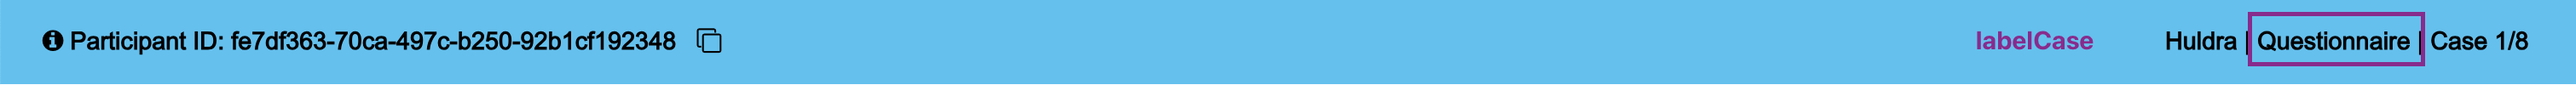
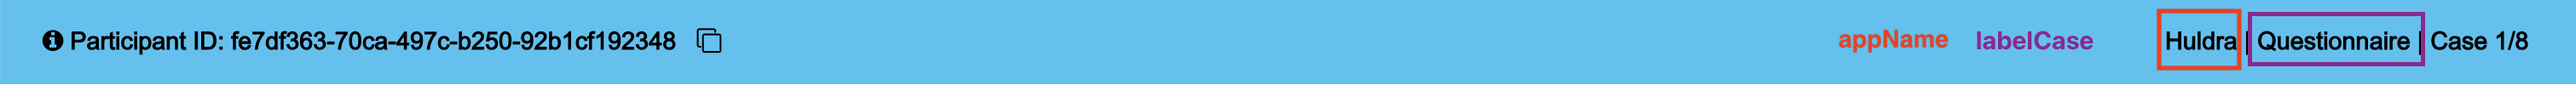
documentation updates

Changed region(s): [[0.7154, 0.36, 0.7776, 0.6], [0.8398, 0.75, 0.8709, 0.84], [0.8398, 0.09, 0.8709, 0.18]]

diff --git a/CONFIGURATION-PARAMETERS.md b/CONFIGURATION-PARAMETERS.md
@@ -807,71 +807,122 @@ The `REACT_APP_homepage` block contains 3 elements.
 
 
 
-## REACT_APP_footer
-
-The footer component is common to all pages in the survey (except warning page). 
-The footer is configured using the `REACT_APP_footer` block in the `config.json` file. 
-
-### Parameters
-
-The `REACT_APP_footer` block contains 5 elements.
-- `icon1ClassName`: The first icon dsplayed on the footer can be configured with this element. The icon class is generated through font awesome which is a toolkit that provides scalable vector icons.
-- `icon2ClassName`: The second icon dsplayed on the footer can be configured with this element. The icon class is generated through font awesome which is a toolkit that provides scalable vector icons.
-- `icon1Url`: The URL that a user will be redirected when clicked on first icon is defined here.
-- `icon2Url`: The URL that a user will be redirected when clicked on second icon is defined here.
-- `label`: The text between two icons can be configured here.
-
-### Visual Overview
-
-<kbd>![Footer](./src/assets/documentation/footer.png)</kbd>
-
-### Sample Config
-
-```json
- "REACT_APP_footer": {
-    "icon1ClassName": "fa fa-envelope-o mr-1 fa-lg generic-icon",
-    "icon2ClassName": "fa fa-github ml-1 fa-lg generic-icon",
-    "icon1Url": "mailto:huldra@simula.no",
-    "icon2Url": "https://github.com/simula/huldra",
-    "label": "huldra@simula.no"
-  }
-```
-
-
-
-## REACT_APP_header
-
-The header component is common to all pages in the survey (except warning page, homepage, registration page, and end page). 
-The header is configured using the `REACT_APP_header` block in the `config.json` file. 
-
-### Parameters
-
-The `REACT_APP_header` block contains 4 elements.
-- `labelBackground`: This element is used to configure the title of the header on the Background page.
-- `labelDemonstration`: This element is used to configure the title of the header on the Demonstration page.
-- `labelCase`: This element is used to configure the title of the header on the cases pages.
-- `labelSummaryAndFeedback`: This element is used to configure the title of the header on the Summary and Feedback page.
-
-### Visual Overview
-
-<kbd>![Header (Background)](./src/assets/documentation/header_background.png)</kbd>
-<kbd>![Header (Demonstration)](./src/assets/documentation/header_demonstration.png)</kbd>
-<kbd>![Header (Case)](./src/assets/documentation/header_case.png)</kbd>
-<kbd>![Header (Summary and Feedback)](./src/assets/documentation/header_summaryAndFeedback.png)</kbd>
-
-
-### Sample Config
-
-```json
- "REACT_APP_header": {
-    "labelBackground": "Background",
-    "labelDemonstration": "Demonstration",
-    "labelCase": "Questionnaire",
-    "labelSummaryAndFeedback": "Summary and Feedback"
-  }
-
-```
 
 
 ## REACT_APP_general
+This component is a general component which configures various properties of the Huldra framework. This component is used to alter Huldra's behviour and working.
 
+### Parameters
+
+The `REACT_APP_general` block contains 11 elements.
+- `softwareInfoTag`: This tag serves the purpose of defining the software version or providing software information. The details specified here are prominently displayed in the generated JSON output file.
+- `appName`: This tag is used to congigure the app name which is displayed on the header. (Refer to the visual overview under the header subsection here for better understanding.)
+- `allowRevisitingAnswers`: This tag can take 2 values, i.e., True or False. Setting the value to False will not allow users to visit previous question.
+- `allowProceedingWithoutAnswering`: This tag can take 2 values, i.e., True or False. Setting the value to True will let users move on to another question without answering it, basically making the questions optional to answer.
+- `caseImageViewDetailsMandatory`: In _caseImage_ type survey question, there is a button where users can view more details about a particular image. With this tag it can be set if it is mandatory for user to view the details of the images or not. Set this value to True, if you want to make it mandatory for the user to view the details.
+- `caseHybridViewDetailsMandatory`: In _caseHybrid_ type survey question, there is a button where users can view more details about a particular image. With this tag it can be set if it is mandatory for user to view the details of the images or not. Set this value to True, if you want to make it mandatory for the user to view the details.
+- `caseOrder`: This parameter defines the order of the cases shown to the user.
+    #### Parameters
+    - `cases:` This is where you write the cases (folder names in firebase directory) that you want to show to the user.
+    - `shuffle:` This where you defined how the cases should be shuffled when shown to the user. It takes 2 values: 'categorized', and 'full'. With 'categorized': the order of the cases is shuffled within each media type, but the order of the types is hardcoded (image, hybrid, video, and audio). And with 'full': all the cases are shuffled.
+
+  NB: If you changed case order, sometimes you have to restart the browser or clear the local storage for it to take effect.
+
+- `color`: This element can be used to define the colour scheme of the app. It has 2 subelements. 
+    #### Parameters
+   - `themeColor:` Here you can define the theme colour of the app, this is mostly observed at the header and footer of the app. The default themeColor is `blue`.
+
+   - `buttonColor:` Here you can define the color of buttons in the app. The default buttonColor is `yellow`.
+
+  NB: You can pick from the following lists of colours only:
+
+  - 'blue': $\color{#38c3f2}{■}$ (#38c3f2)
+  - 'green': $\color{#6db784}{■}$ (#6db784);
+  - 'purple': $\color{#9b45b2}{■}$ (#9b45b2);
+  - 'yellow': $\color{#f9e45b}{■}$ (#f9e45b);
+  - 'teal': $\color{#2b6777}{■}$ (#2b6777);
+  - 'orange': $\color{#eb6b40}{■}$ (#eb6b40);
+
+-  `footer`:
+
+    The footer component is common to all pages in the survey (except warning page). 
+    The footer is configured using the `footer` block under `REACT_APP_general` in the `config.json` file. 
+
+    #### Parameters
+
+    The `footer` block contains 5 elements.
+    - `icon1ClassName`: The first icon dsplayed on the footer can be configured with this element. The icon class is generated through font awesome which is a toolkit that provides scalable vector icons.
+    - `icon2ClassName`: The second icon dsplayed on the footer can be configured with this element. The icon class is generated through font awesome which is a toolkit that provides scalable vector icons.
+    - `icon1Url`: The URL that a user will be redirected when clicked on first icon is defined here.
+    - `icon2Url`: The URL that a user will be redirected when clicked on second icon is defined here.
+    - `label`: The text between two icons can be configured here.
+
+    #### Visual Overview
+
+    <kbd>![Footer](./src/assets/documentation/footer.png)</kbd>
+
+
+
+
+-  #### `header`
+
+    The header component is common to all pages in the survey (except warning page, homepage, registration page, and end page). 
+    The header is configured using the `header` block under `REACT_APP_general` in the `config.json` file. 
+
+    #### Parameters
+
+    The `header` block contains 4 elements.
+    - `labelBackground`: This element is used to configure the title of the header on the Background page.
+    - `labelDemonstration`: This element is used to configure the title of the header on the Demonstration page.
+    - `labelCase`: This element is used to configure the title of the header on the cases pages.
+    - `labelSummaryAndFeedback`: This element is used to configure the title of the header on the Summary and Feedback page.
+
+    #### Visual Overview
+
+    <kbd>![Header (Background)](./src/assets/documentation/header_background.png)</kbd>
+    <kbd>![Header (Demonstration)](./src/assets/documentation/header_demonstration.png)</kbd>
+    <kbd>![Header (Case)](./src/assets/documentation/header_case.png)</kbd>
+    <kbd>![Header (Summary and Feedback)](./src/assets/documentation/header_summaryAndFeedback.png)</kbd>
+
+
+  ### Sample Config
+```
+    
+     "REACT_APP_general": {
+    "softwareInfoTag": "NA (Development)",
+    "appName": "Huldra",
+    "allowRevisitingAnswers": true,
+    "allowProceedingWithoutAnswering": true,
+    "caseImageViewDetailsMandatory": true,
+    "caseHybridViewDetailsMandatory": true,
+    "caseOrder": {
+      "cases": [],
+      "shuffle": "categorized"
+    },
+    "outputJson": [
+      "ParticipantInfo",
+      "CaseOrder",
+      "SoftwareInfo",
+      "CaseStudyAnswers",
+      "SessionEvents",
+      "FeedbackFormAnswers",
+      "SessionInfo"
+    ],
+    "color": {
+      "themeColor": "blue",
+      "buttonColor": "yellow"
+    },
+    "footer": {
+      "icon1ClassName": "fa fa-envelope-o mr-1 fa-lg generic-icon",
+      "icon2ClassName": "fa fa-github ml-1 fa-lg generic-icon",
+      "icon1Url": "mailto:huldra@simula.no",
+      "icon2Url": "https://github.com/simula/huldra",
+      "label": "huldra@simula.no"
+    },
+    "header": {
+      "labelBackground": "Background",
+      "labelDemonstration": "Demonstration",
+      "labelCase": "Questionnaire",
+      "labelSummaryAndFeedback": "Summary and Feedback"
+    }
+  ```

diff --git a/README.md b/README.md
@@ -77,13 +77,14 @@ When you deploy to a server such as Heroku, you can specify configuration parame
 See [CONFIGURATION-PARAMETERS.md](CONFIGURATION-PARAMETERS.md) for more information about the configuration parameters.
 
 ### Color scheme
-You can add the following to `src/config.json` to specify a color scheme.
-
+To specify a color scheme, you need to navigate to src/config.json. Inside this file, you will find an element named 'REACT_APP_general'. Within this element, you can define the color scheme using the 'color' element, as shown below:
 ```
-  "REACT_APP_color": {
+"REACT_APP_general": {
+  "color": {
     "themeColor" : "<value>",
     "buttonColor" : "<value>"
-  },
+  }
+}
 ```
 
 Supported values are: `green`, `purple`, `yellow`, `teal`, and `orange`.
